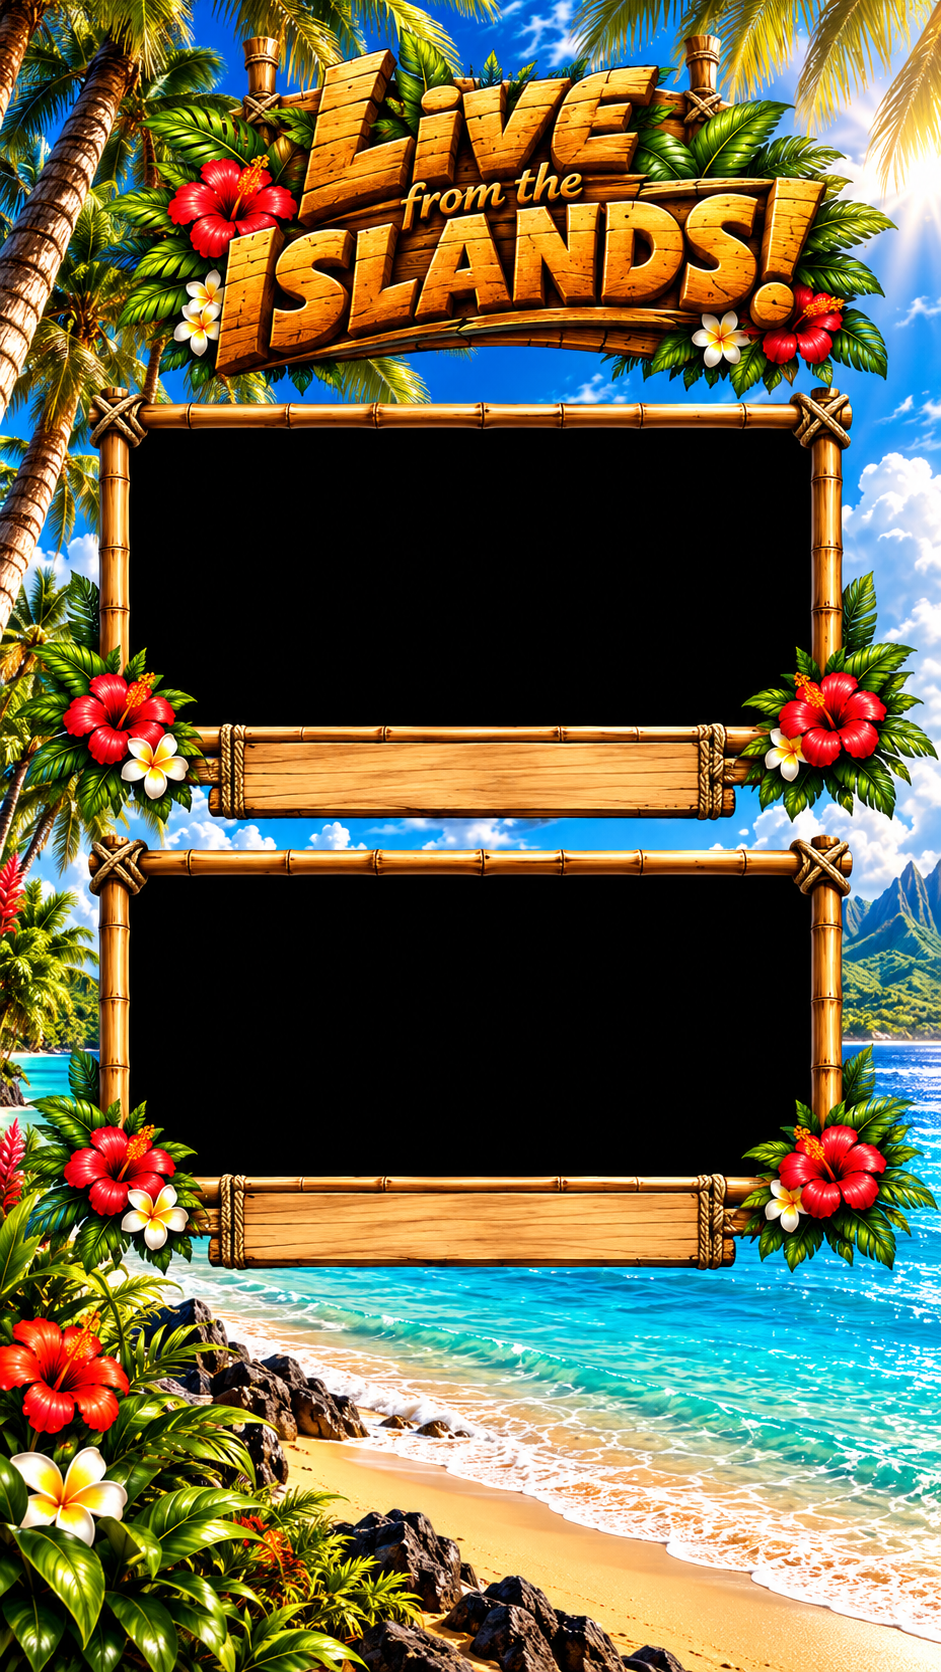
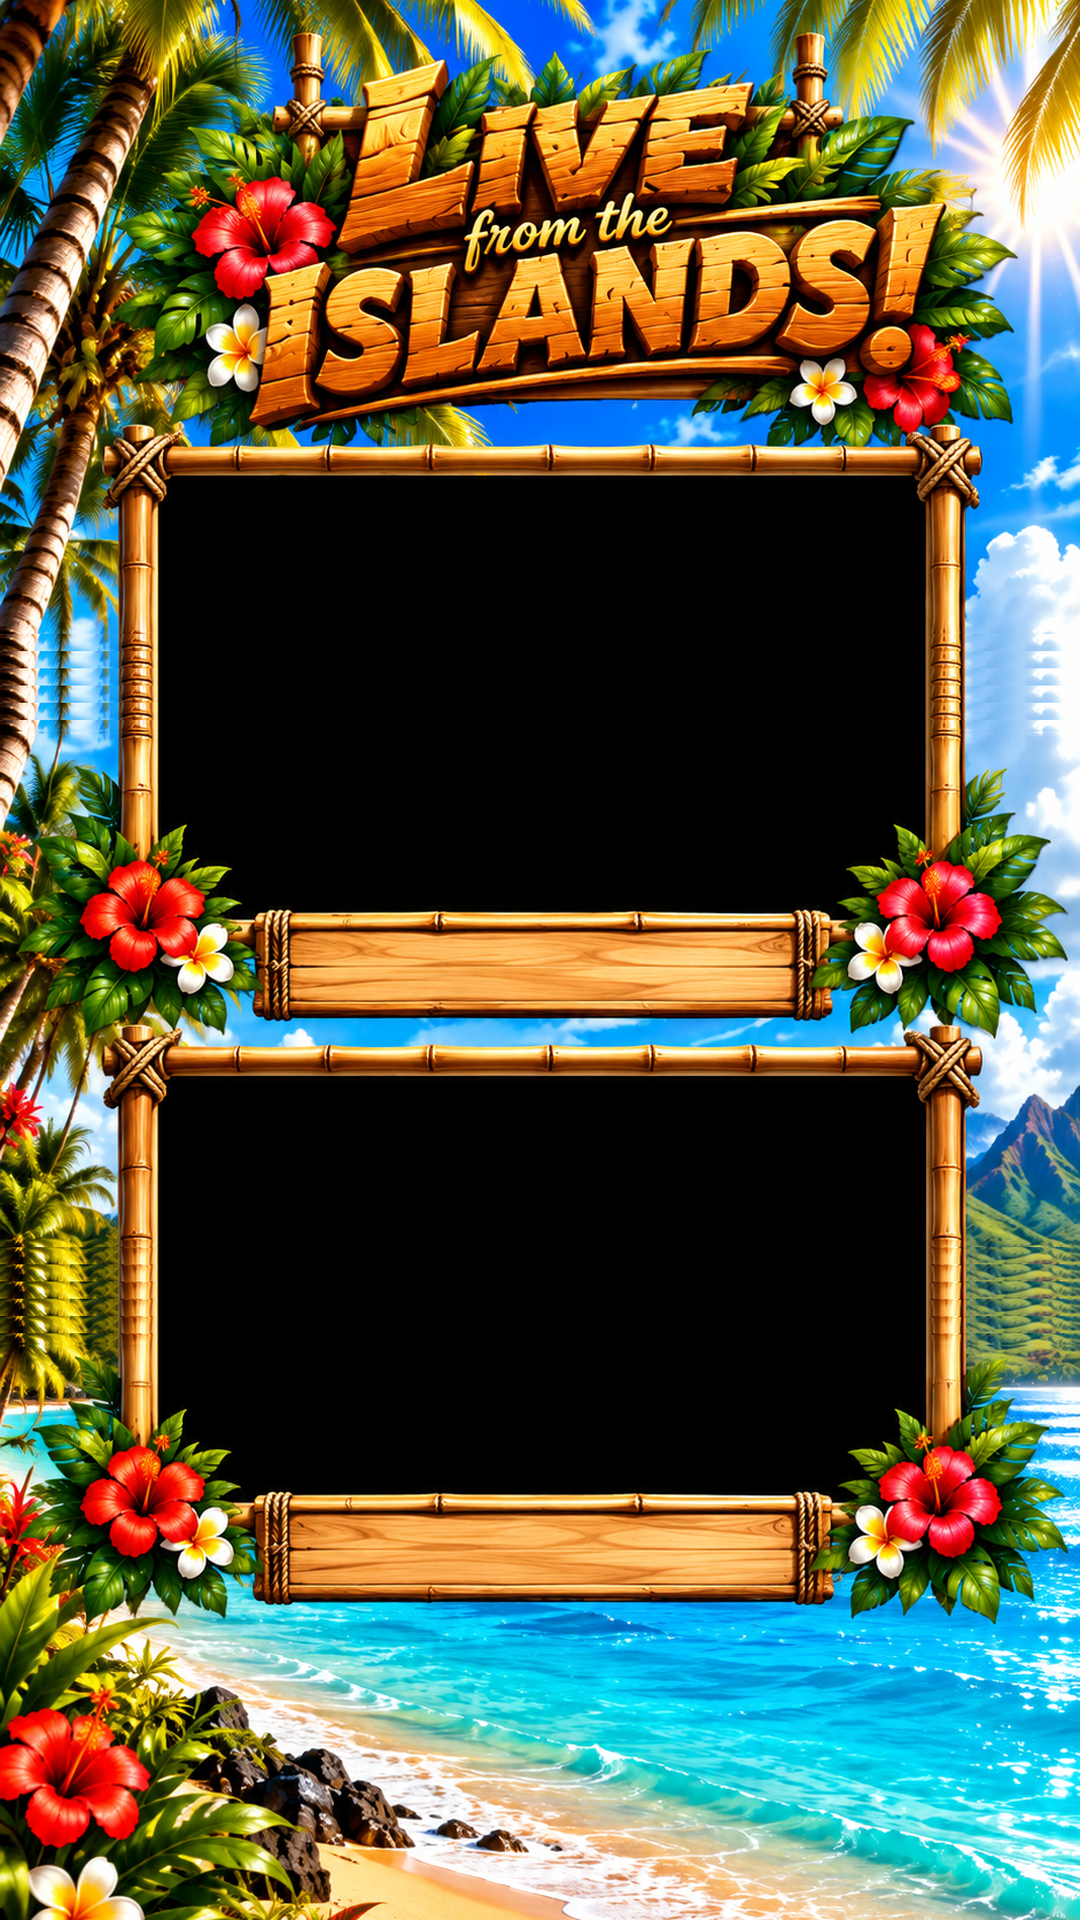
Add files via upload

diff --git a/index.html b/index.html
@@ -1,5 +1,5 @@
 <!doctype html>
-<html lang="en"><head><meta charset="utf-8"><meta name="viewport" content="width=device-width, initial-scale=1"><meta name="theme-color" content="#080806"><title>Rose's Cove Tiki Lounge</title><link rel="preconnect" href="https://fonts.googleapis.com"><link rel="preconnect" href="https://fonts.gstatic.com" crossorigin><link href="https://fonts.googleapis.com/css2?family=Barlow+Semi+Condensed:wght@600;700;800;900&display=swap" rel="stylesheet"><link rel="stylesheet" href="./css/sign.css?v=2.0"></head>
+<html lang="en"><head><meta charset="utf-8"><meta name="viewport" content="width=device-width, initial-scale=1"><meta name="theme-color" content="#080806"><title>Rose's Cove Tiki Lounge</title><link rel="preconnect" href="https://fonts.googleapis.com"><link rel="preconnect" href="https://fonts.gstatic.com" crossorigin><link href="https://fonts.googleapis.com/css2?family=Barlow+Semi+Condensed:wght@600;700;800;900&display=swap" rel="stylesheet"><link rel="stylesheet" href="./css/sign.css?v=2.1"></head>
 <body>
 <div id="viewport"><main id="sign" aria-label="Rose's Cove vertical digital sign">
 <section class="screen selected" id="screen-menu" aria-label="Welcome and menu">
@@ -19,7 +19,7 @@
   <div class="idol-altar"><div class="idol-aura"></div><img src="./assets/tiki_idol.png" class="idol" alt="Carved tiki idol, future animated host"><div class="idol-caption">THE KEEPER OF ISLAND SECRETS</div></div>
   <div class="fact-card"><div class="fact-type" id="fact-type">TIKI CULTURE</div><div class="fact-content" id="fact-text">A little island wisdom is coming your way…</div><div class="fact-foot">The tiki has spoken. 🌺</div></div>
 </section>
-<button id="version" title="Open sign settings">v2.0</button>
+<button id="version" title="Open sign settings">v2.1</button>
 <div id="settings" class="settings hidden" role="dialog" aria-label="Rose's Cove sign settings" aria-modal="true"><div class="settings-inner"><div class="settings-title">⚙ SIGN SETTINGS <button id="close-settings">✕</button></div><nav class="settings-tabs" aria-label="Settings screen"><button type="button" class="active" data-settings-tab="general">GENERAL</button><button type="button" data-settings-tab="menu">SCREEN 1</button><button type="button" data-settings-tab="video">SCREEN 2</button><button type="button" data-settings-tab="trivia">SCREEN 3</button></nav><div class="settings-panel active" data-panel="general"><label><span>Automatic screen rotation</span><input id="auto-rotate" type="checkbox" checked></label><label><span>Screen time (seconds)</span><input type="number" id="screen-time" min="5" max="300" value="25"></label></div><div class="settings-panel" data-panel="trivia"><label><span>Trivia rotation (seconds)</span><input type="number" id="fact-time" min="5" max="300" value="12"></label></div><div class="settings-panel" data-panel="video"><label><span>Weather location rotation (seconds)</span><input type="number" id="weather-time" min="5" max="300" value="12"></label><div class="camera-tuning"><h3>CAMERA CAPTION PLACEMENT</h3><label><span>Upper caption vertical <output id="cam-y-0-value">0 px</output></span><input type="range" id="cam-y-0" min="-100" max="100" step="1" value="0"></label><label><span>Lower caption vertical <output id="cam-y-1-value">0 px</output></span><input type="range" id="cam-y-1" min="-100" max="100" step="1" value="0"></label></div></div><div class="settings-panel" data-panel="menu"><label><span>Announcement speed (pixels/second)</span><input type="number" id="ticker-speed" min="20" max="500" value="95"></label><div class="ticker-tuning"><h3>SCREEN 1 · BOTTOM SCROLL</h3><label><span>Ticker text size <output id="ticker-font-size-value">45 px</output></span><input type="range" id="ticker-font-size" min="18" max="90" step="1" value="45"></label><label class="ticker-text-edit"><span>SCROLLING ANNOUNCEMENT TEXT</span><textarea id="ticker-text" rows="3" maxlength="2500" spellcheck="true"></textarea></label></div><div class="menu-tuning"><h3>SCREEN 1 · MENU LETTERING</h3><p>Separate controls for each menu. Preview changes live; Save &amp; Close to keep them.</p><label><span>Drinks lettering size <output id="drinks-size-value">60 px</output></span><input type="range" id="drinks-size" min="32" max="82" step="1" value="60"></label><label><span>Drinks vertical offset <output id="drinks-y-value">0 px</output></span><input type="range" id="drinks-y" min="-90" max="90" step="2" value="0"></label><label><span>Food lettering size <output id="food-size-value">60 px</output></span><input type="range" id="food-size" min="32" max="82" step="1" value="60"></label><label><span>Food vertical offset <output id="food-y-value">0 px</output></span><input type="range" id="food-y" min="-90" max="90" step="2" value="0"></label><button id="reset-menu-tuning" type="button">RESET MENU ADJUSTMENTS</button><div class="menu-editor"><h3>EDIT MENU ITEMS</h3><p>Five slots per menu. Leave any slot blank to hide it. Changes preview live; Save &amp; Close stores them on this Mac.</p><div class="menu-editor-grid"><div class="menu-editor-group"><label class="menu-title-edit"><span>DRINKS heading</span><input type="text" id="edit-drinks-title" maxlength="80" autocomplete="off" spellcheck="false" aria-label="DRINKS heading"></label><h4>DRINKS <button type="button" id="preview-drinks" class="preview-menu">PREVIEW</button></h4><label class="menu-editor-row"><span>1</span><input type="text" id="edit-drinks-1" maxlength="140" autocomplete="off" spellcheck="false" aria-label="DRINKS item 1"></label><label class="menu-editor-row"><span>2</span><input type="text" id="edit-drinks-2" maxlength="140" autocomplete="off" spellcheck="false" aria-label="DRINKS item 2"></label><label class="menu-editor-row"><span>3</span><input type="text" id="edit-drinks-3" maxlength="140" autocomplete="off" spellcheck="false" aria-label="DRINKS item 3"></label><label class="menu-editor-row"><span>4</span><input type="text" id="edit-drinks-4" maxlength="140" autocomplete="off" spellcheck="false" aria-label="DRINKS item 4"></label><label class="menu-editor-row"><span>5</span><input type="text" id="edit-drinks-5" maxlength="140" autocomplete="off" spellcheck="false" aria-label="DRINKS item 5"></label></div><div class="menu-editor-group"><label class="menu-title-edit"><span>FOOD heading</span><input type="text" id="edit-food-title" maxlength="80" autocomplete="off" spellcheck="false" aria-label="FOOD heading"></label><h4>FOOD <button type="button" id="preview-food" class="preview-menu">PREVIEW</button></h4><label class="menu-editor-row"><span>1</span><input type="text" id="edit-food-1" maxlength="140" autocomplete="off" spellcheck="false" aria-label="FOOD item 1"></label><label class="menu-editor-row"><span>2</span><input type="text" id="edit-food-2" maxlength="140" autocomplete="off" spellcheck="false" aria-label="FOOD item 2"></label><label class="menu-editor-row"><span>3</span><input type="text" id="edit-food-3" maxlength="140" autocomplete="off" spellcheck="false" aria-label="FOOD item 3"></label><label class="menu-editor-row"><span>4</span><input type="text" id="edit-food-4" maxlength="140" autocomplete="off" spellcheck="false" aria-label="FOOD item 4"></label><label class="menu-editor-row"><span>5</span><input type="text" id="edit-food-5" maxlength="140" autocomplete="off" spellcheck="false" aria-label="FOOD item 5"></label></div></div></div></div></div><div class="settings-actions"><button id="prev-screen">← PREV</button><button id="next-screen">NEXT →</button><button id="save-settings">SAVE & CLOSE</button></div><p>Settings are saved in this browser. Arrow keys also change screens. This menu is hidden until the version number is clicked.</p></div></div>
 </main><button id="fullscreen-toggle" type="button" title="Enter full screen" aria-label="Enter full screen" aria-pressed="false"><span id="fullscreen-icon" aria-hidden="true">⛶</span></button></div>
 <script src="./js/data.js"></script><script src="./js/sign-v2.0.js"></script><script src="./js/fullscreen.js?v=0.7"></script>

diff --git a/css/sign.css b/css/sign.css
@@ -161,3 +161,16 @@
 #settings .menu-editor-grid{gap:8px;}
 #settings .menu-editor-row{padding:3px 0;}
 #screen-live .dual-cam-fallback:not(.visible){display:none!important;}
+
+/* v2.1 — Screen 2 only: fit NEW native 1080x1920 illustrated frames.
+   All dimensions are canvas pixels; player and plaque dimensions are independent. */
+#screen-live{background-size:1080px 1920px;background-position:center center;}
+#screen-live .dual-cam{left:160px;width:764px;}
+#screen-live .cam-a{top:480px;height:430px;}
+#screen-live .cam-b{top:1080px;height:405px;}
+#screen-live .dual-cam-player,#screen-live .dual-cam-player iframe{width:100%;height:100%;display:block;}
+#screen-live .dual-label{left:250px;width:580px;height:70px;padding:0;line-height:1.06;white-space:normal;overflow:visible;}
+#screen-live .dual-label-a{top:928px;}
+#screen-live .dual-label-b{top:1508px;}
+#screen-live .dual-label .cam-name{font-size:29px;line-height:1.05;}
+#screen-live .dual-label .cam-place{font-size:23px;line-height:1.07;}

diff --git a/README.md b/README.md
@@ -3,3 +3,7 @@ Rose's Cove Tiki Lounge v2.0
 Changes: screen-specific compact settings tabs; ticker text & size persistent in Chrome; adjustable two camera captions; eight supplied YouTube IDs in pairs.
 Sources are user-supplied links; YouTube may still block embedding or a livestream may be offline.
 To publish: upload full archive contents (not ZIP) to GitHub repository root.
+
+
+## v2.1
+Screen 2 only: replaced background with supplied 1080x1920 artwork, aligned both video mounts to black panels, and aligned captions to the two wooden plaques. Caption offset settings and all other scripts remain unchanged.
